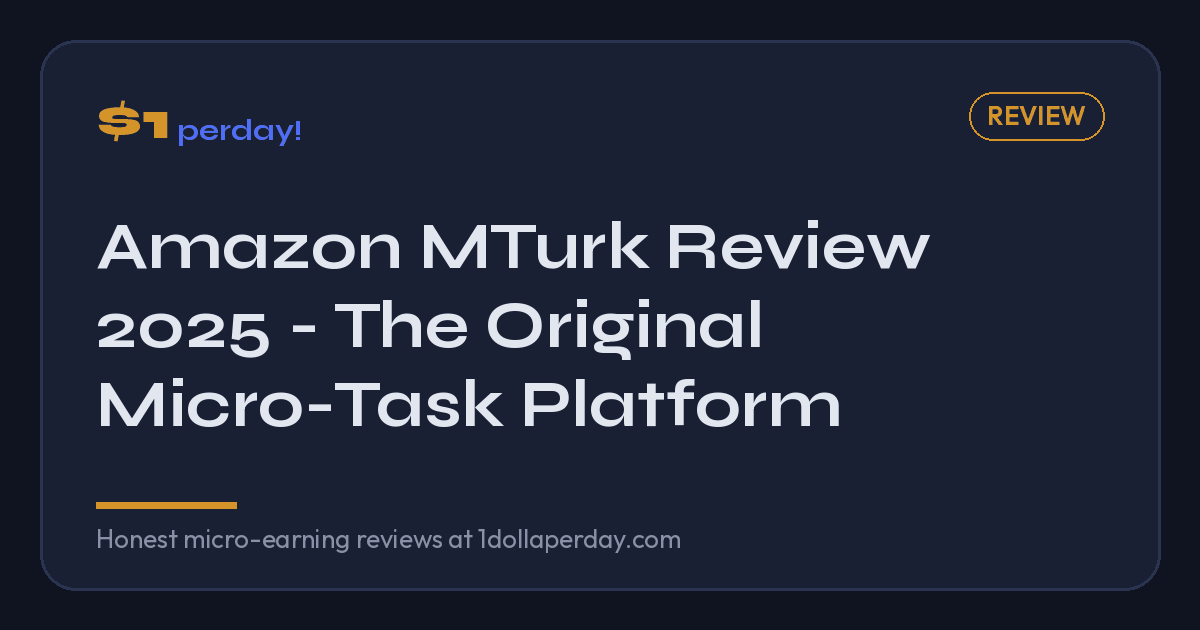
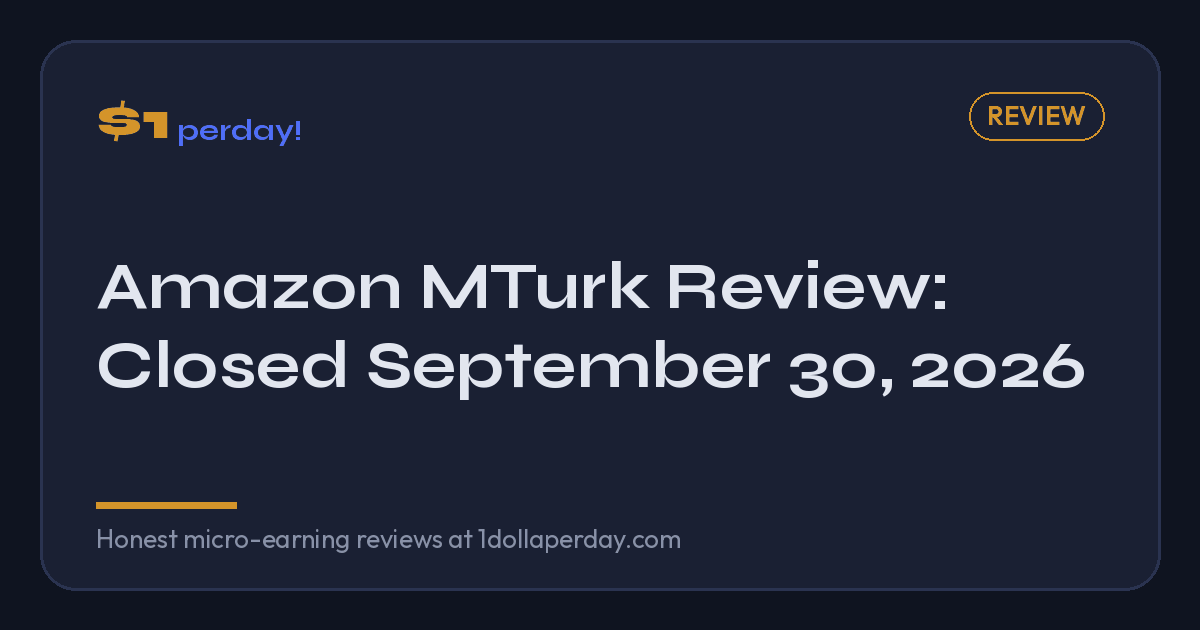
MTurk closed on Sept 30, 2026: review marked Closed with the Oct 30 payment-preference deadline, sign-up links removed, listings and cross-links updated

Changed region(s): [[0.0617, 0.3317, 0.925, 0.6937]]

diff --git a/reviews/mturk.html b/reviews/mturk.html
@@ -19,24 +19,24 @@
     <meta charset="UTF-8">
     <meta name="viewport" content="width=device-width, initial-scale=1.0">
 
-    <title>Amazon MTurk Review 2025 - The Original Micro-Task Platform | $1perday!</title>
-    <meta name="description" content="Honest Amazon Mechanical Turk review 2025. The original micro-task platform backed by Amazon. Real earnings potential, how to get started, and whether it's still worth your time.">
+    <title>Amazon MTurk Review: Closed September 30, 2026 | $1perday!</title>
+    <meta name="description" content="Amazon Mechanical Turk permanently closed on September 30, 2026. Former workers have until October 30, 2026 to confirm payment preferences. Alternatives and our original review.">
     <meta name="keywords" content="Amazon MTurk review, Mechanical Turk, MTurk legit, MTurk 2025, micro-tasks, Amazon MTurk earnings">
 
     <link rel="canonical" href="https://1dollaperday.com/reviews/mturk">
 
-    <meta property="og:title" content="Amazon MTurk Review 2025 - The Original Micro-Task Platform">
-    <meta property="og:description" content="Complete honest review of Amazon Mechanical Turk. The OG of micro-task platforms - is it still worth using in 2025?">
+    <meta property="og:title" content="Amazon MTurk Review: Closed September 30, 2026">
+    <meta property="og:description" content="Amazon Mechanical Turk permanently closed on September 30, 2026. Former workers have until October 30, 2026 to confirm payment preferences. Alternatives and our original review.">
     <meta property="og:type" content="article">
     <meta property="og:url" content="https://1dollaperday.com/reviews/mturk">
     <meta property="og:site_name" content="$1perday!">
     <meta property="og:image" content="https://1dollaperday.com/assets/og/reviews--mturk.png">
     <meta property="og:image:width" content="1200">
     <meta property="og:image:height" content="630">
-    <meta property="og:image:alt" content="Amazon MTurk Review 2025 - The Original Micro-Task Platform">
+    <meta property="og:image:alt" content="Amazon MTurk Review: Closed September 30, 2026">
     <meta name="twitter:card" content="summary_large_image">
-    <meta name="twitter:title" content="Amazon MTurk Review 2025 - The Original Micro-Task Platform">
-    <meta name="twitter:description" content="Complete honest review of Amazon Mechanical Turk. The OG of micro-task platforms - is it still worth using in 2025?">
+    <meta name="twitter:title" content="Amazon MTurk Review: Closed September 30, 2026">
+    <meta name="twitter:description" content="Amazon Mechanical Turk permanently closed on September 30, 2026. Former workers have until October 30, 2026 to confirm payment preferences. Alternatives and our original review.">
     <meta name="twitter:image" content="https://1dollaperday.com/assets/og/reviews--mturk.png">
 
     <link rel="preconnect" href="https://fonts.googleapis.com">
@@ -65,9 +65,9 @@
             "bestRating": "10",
             "worstRating": "1"
         },
-        "reviewBody": "Amazon MTurk is the original micro-task platform and still one of the best. The learning curve is steep and the approval process is slow, but dedicated workers can earn $5-15/hour with the right approach.",
+        "reviewBody": "Amazon MTurk was the original micro-task platform. Amazon permanently closed it on September 30, 2026.",
         "datePublished": "2025-01-01",
-        "dateModified": "2026-02-03",
+        "dateModified": "2026-10-24",
         "publisher": {"@type": "Organization", "name": "$1perday!"}
     }
     </script>
@@ -138,12 +138,12 @@
                 
                 <header class="review-header">
                     <div class="review-title-section">
-                        <span class="last-updated">Updated January 2025</span>
+                        <span class="last-updated">Updated October 2026</span>
                         <h1>Amazon MTurk Review</h1>
                         <p class="article-meta">Category: Micro-Tasks / Crowdsourcing</p>
                     </div>
                     <div class="review-verdict">
-                        <span class="rating-badge recommended">Highly Recommended</span>
+                        <span class="rating-badge avoid">Closed</span>
                         <div class="score-display">
                             <span class="score-number">8.5</span>
                             <span class="score-max">/ 10</span>
@@ -152,6 +152,12 @@
                 </header>
 
                 <div class="article-content">
+                    <div class="info-box danger">
+                        <p class="info-box-title">MTurk closed on September 30, 2026</p>
+                        <p>Amazon permanently closed Mechanical Turk on September 30, 2026. If you were a worker: <strong>you have until October 30, 2026</strong> to confirm your payment method and transfer schedule in the MTurk Worker Portal (Account Settings, then Manage Payment Preferences). Approved HITs are paid on your normal schedule, and HITs still pending approval are auto-approved after 30 days. After October 30, contact MTurk Customer Service for payment changes.</p>
+                        <p style="margin-bottom: 0;">Source: <a href="https://www.mturk.com/help" target="_blank" rel="noopener nofollow">MTurk closure FAQs</a>. For micro-task work today, see <a href="clickworker">Clickworker</a> or our <a href="../blog/best-micro-task-sites-2026">best micro-task sites</a> guide. The rest of this page is our original review, kept for the record.</p>
+                    </div>
+
                     <div class="quick-answer" id="quick-answer">
                         <p>Amazon Mechanical Turk (MTurk) is the original micro-task platform, backed by Amazon and running since 2005. It offers the widest variety of HITs (tasks) of any platform, with experienced Turkers earning $6–$10/hour. The learning curve is steep but the earning ceiling is higher than most micro-earning options. Rating: 8.5/10.</p>
                     </div>
@@ -187,11 +193,6 @@
                         </div>
                     </div>
 
-                    <div class="link-block">
-                        <p><strong>Join Amazon MTurk:</strong></p>
-                        <a href="https://www.mturk.com/worker" class="referral-link" data-ref="mturk" target="_blank" rel="noopener nofollow">Sign Up for Amazon MTurk</a>
-                        <p class="text-small text-muted">Direct link - no referral program</p>
-                    </div>
 
                     <section>
                         <h2>What is Amazon MTurk?</h2>
@@ -432,14 +433,11 @@
                         <h2>Final Verdict</h2>
 
                         <div class="info-box success">
-                            <p class="info-box-title">Verdict: Highly Recommended (For Committed Workers)</p>
+                            <p class="info-box-title">Verdict (written before the closure): Highly Recommended for committed workers</p>
                             <p>Amazon MTurk is the most legitimate and potentially lucrative micro-task platform available. It's backed by Amazon, has been running for 20 years, and experienced workers can earn $10-20+/hour. The catch is the steep learning curve - your first month will be frustrating and low-paying as you learn the ropes and build your reputation.</p>
                             <p style="margin-bottom: 0;"><strong>Best for:</strong> US-based workers willing to invest time in learning the platform. If you treat MTurk like a real skill to develop, it can become a genuine income source. Not recommended for casual users or those outside the US (who can only receive Amazon balance). Use the community resources - they're invaluable.</p>
                         </div>
 
-                        <div class="link-block">
-                            <a href="https://www.mturk.com/worker" class="referral-link" data-ref="mturk" target="_blank" rel="noopener nofollow">Apply to Amazon MTurk &rarr;</a>
-                        </div>
                     </section>
 
                     <section>
@@ -492,11 +490,6 @@
                     </ul>
                 </div>
 
-                <div class="sidebar-widget">
-                    <h3>Quick Signup</h3>
-                    <a href="https://www.mturk.com/worker" target="_blank" rel="noopener" style="display: block; text-align: center; padding: 0.75rem; background: var(--primary); color: white; border-radius: 4px; text-decoration: none;">Apply to MTurk</a>
-                    <p class="text-small text-muted" style="margin-top: 0.5rem;">Backed by Amazon</p>
-                </div>
 
                 <div class="sidebar-widget">
                     <h3>Similar Platforms</h3>

diff --git a/reviews/toloka.html b/reviews/toloka.html
@@ -316,7 +316,7 @@
                         <h2>Final Verdict</h2>
                         <div class="info-box success">
                             <p class="info-box-title">Verdict: Recommended</p>
-                            <p>Toloka is perfect for people outside the US who can't access MTurk, or anyone who wants to test micro-tasks with virtually no commitment thanks to the $0.02 minimum. Pay is low but reliable, and Yandex backing provides stability.</p>
+                            <p>Toloka suited people outside the US who couldn't access MTurk (which closed in September 2026), or anyone who wants to test micro-tasks with virtually no commitment thanks to the $0.02 minimum. Pay is low but reliable, and Yandex backing provides stability.</p>
                         </div>
 
                     </section>
@@ -324,7 +324,7 @@
                     <section>
                         <h2>Related Reviews</h2>
                         <ul>
-                            <li><a href="mturk">Amazon MTurk Review</a> - Higher pay, limited access</li>
+                            <li><a href="mturk">Amazon MTurk Review</a> - Closed September 2026</li>
                             <li><a href="clickworker">Clickworker Review</a> - UHRS access</li>
                             <li>Appen - Project-based work</li>
                         </ul>

diff --git a/reviews/index.html b/reviews/index.html
@@ -970,9 +970,9 @@
                             <div class="review-card">
                                 <div class="review-card-header">
                                     <h3><a href="mturk">Amazon MTurk</a></h3>
-                                    <span class="rating-badge recommended">Highly Recommended</span>
+                                    <span class="rating-badge avoid">Closed</span>
                                 </div>
-                                <p class="review-card-summary">The original micro-task platform backed by Amazon. Steep learning curve but dedicated workers can earn $5-15/hour with the right approach.</p>
+                                <p class="review-card-summary">Amazon closed Mechanical Turk on September 30, 2026. Former workers: confirm payment preferences by October 30, 2026.</p>
                                 <div class="review-card-meta">
                                     <span>Earnings: $5-15/hour</span>
                                     <span>Payment: Amazon, Bank Transfer</span>

diff --git a/reviews/usertesting.html b/reviews/usertesting.html
@@ -456,7 +456,7 @@
                         <h2>Related Reviews & Guides</h2>
                         <ul>
                             <li><a href="prolific">Prolific Review (Academic Surveys)</a></li>
-                            <li><a href="mturk">Amazon MTurk Review</a></li>
+                            <li><a href="mturk">Amazon MTurk Review</a> (closed September 2026)</li>
                             <li><a href="swagbucks">Swagbucks Review</a></li>
                             <li><a href="freecash">Freecash Review</a></li>
                             <li><a href="./">All Reviews</a></li>

diff --git a/reviews/clickworker.html b/reviews/clickworker.html
@@ -390,7 +390,7 @@
                     <section>
                         <h2>Related Reviews</h2>
                         <ul>
-                            <li><a href="mturk">Amazon MTurk Review</a> - The original micro-task platform</li>
+                            <li><a href="mturk">Amazon MTurk Review</a> - Closed September 2026</li>
                             <li><a href="prolific">Prolific Review</a> - Academic research studies</li>
                             <li><a href="swagbucks">Swagbucks Review</a> - GPT site with tasks</li>
                         </ul>
